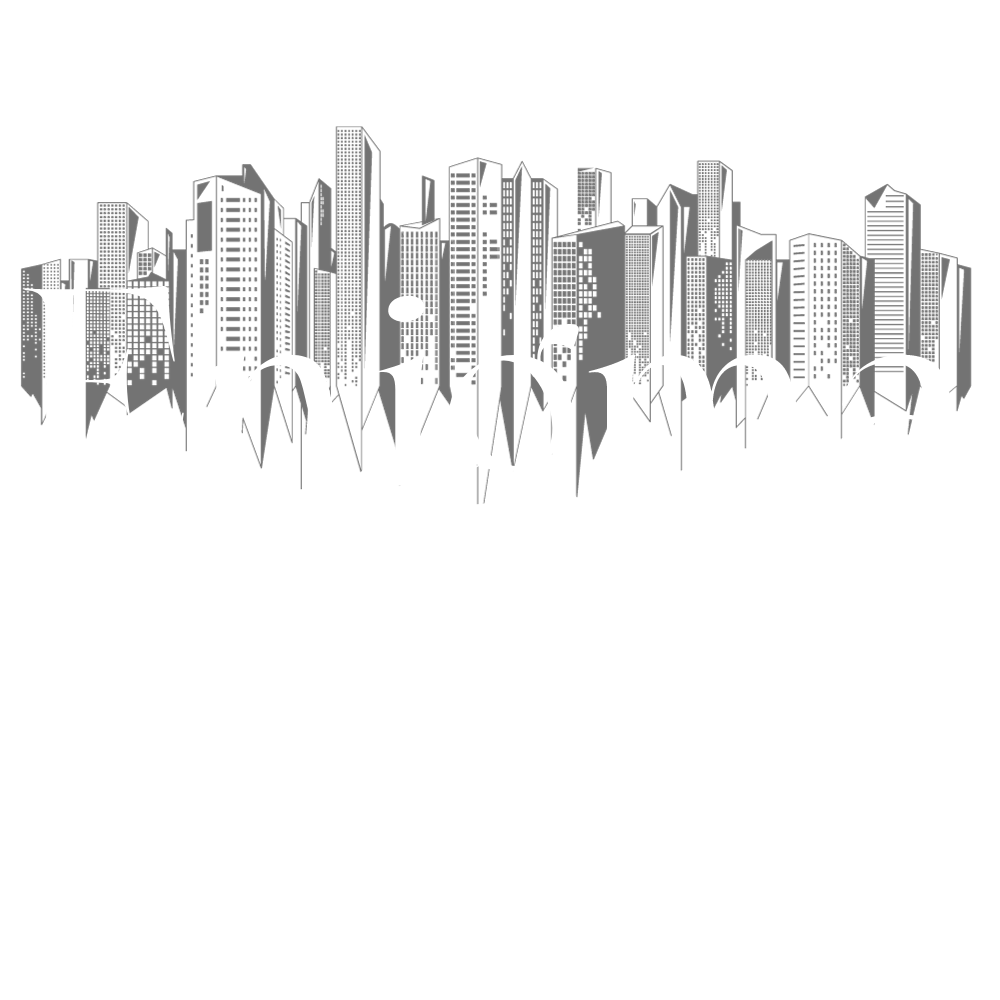
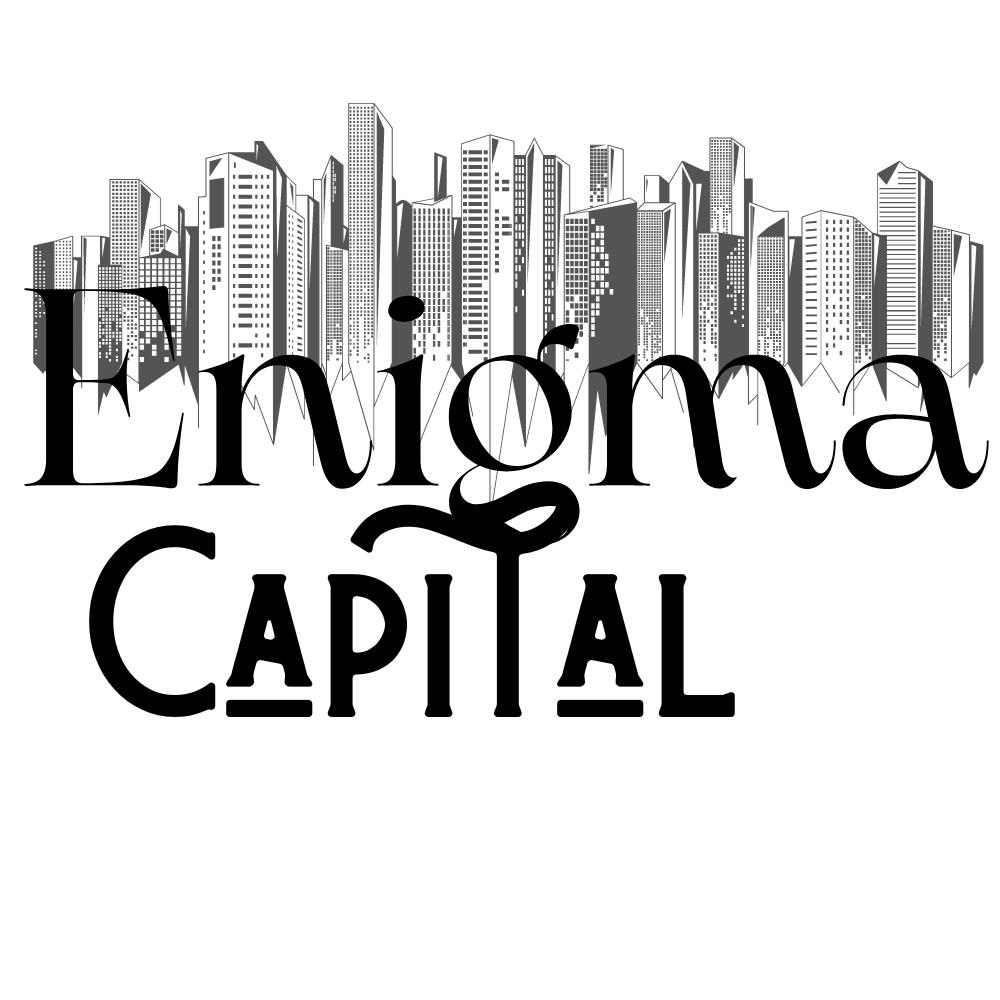
crud

Changed region(s): [[0.0, 0.093, 0.992, 0.744], [0.558, 0.558, 0.744, 0.744]]

diff --git a/css/style.css b/css/style.css
@@ -16,7 +16,7 @@ body {
 .titulo {
   position: fixed;
   left: 2%;
-  top: 9%;
+  top: 30%;
   width: 8em;
   margin-top: -2.5em;
   font-size: large;
@@ -38,7 +38,7 @@ a {
 
 .iniciar {
   position: fixed;
-  right: 5%;
+  right: 85%;
   top: 30%;
   width: 8em;
   margin-top: -2.5em;
@@ -57,12 +57,30 @@ a {
 
 .iniciar:hover {
   background-color: rgb(255, 255, 255);
+  border: 3px solid gray;
 }
 
 a:hover {
   color: black;
 }
-
+.crud {
+  position: fixed;
+  right: 95%;
+  bottom: 95%;
+  width: 8em;
+  margin-top: -2.5em;
+  border: 3px solid #ffffff;
+  padding: 5px 10px 5px 10px;
+  background-color: gray;
+  color: inherit;
+  transition: background .3s;
+  border-radius: 10px;
+  margin-top: 400px;
+  margin-left: 1150px;
+  width: 80px;
+  height: 40px;
+  font-size:medium
+}
 .sinopse {
   position: fixed;
   left: 2%;

diff --git a/index.php b/index.php
@@ -8,24 +8,10 @@
 </head>
 
 <body>
-    <label class="titulo"><img src="img/Enigma" width="250px" height="250px"></label><br>
+    <label class="titulo"><img src="img/Enigma" width="350px" height="350px"></label><br>
     <button type="button" class="iniciar"><a href="jogo.php">INICIAR</a></button>
-    <button type="button" class="crud"><a href="./crud/cadHistoria.php">cadastrarHistoria</a></button>
-    <button type="button" class="crud"><a href="./crud/cadEscolhas.php">cadastrarEscolhas</a></button>
-    <div class="sinopse">Em Enigma Capital, você assume o papel de um jovem dos anos 2000 que, após descobrir um
-        segredo obscuro sobre sua família, se vê imerso em um mundo de mistério e tragédia. Quando seu pai revela uma
-        história terrível de sumiço e perda que assolou sua família em 1972, o jovem decide desvendar os segredos do
-        passado.
-
-        Determinado a recuperar a honra de sua família e a riqueza perdida, você parte em uma jornada sombria para
-        descobrir a verdade por trás do desaparecimento de seu parente e o paradeiro dele. No entanto, o caminho para a
-        justiça está cheio de perigos e escolhas difíceis.
-
-        Cada pista descoberta revela uma nova camada de mistério, enquanto você mergulha mais fundo na história obscura
-        de sua família. A linha entre amigo e inimigo se torna turva, e as suas escolhas moldam não apenas o seu
-        destino, mas também o destino das gerações futuras.
-
-    </div>
+    <button type="button" class="crud"><a href="./crud/cadHistoria.php">CRUD</a></button>
+    
 </body>
 
 </html>

diff --git a/crud/listarE.php b/crud/listarE.php
@@ -39,10 +39,10 @@
     </tr>';
 
   while ($dados = mysqli_fetch_assoc($resultado)) {
-    echo "<td> " . $dados['id_escolhas'] . " </td>";
+    echo "<td> " . $dados['id_escolha'] . " </td>";
     echo "<td> " . $dados['escolha'] . "</td>";
-    echo "<td><a href='../crud/editarE.php?id_escolhas=" . $dados['id_escolhas'] . "&escolha=" . $dados['escolha'] . "'>" . "<img src='../img/settings.png' widht='20' height='20'" . "</a>";
-    echo " <a href='../crud/excluirEscolhas.php?id_escolhas=" . $dados['id_escolhas'] . "'>" . "<img src='../img/lixeira.png' widht='20' height='20'" . "</a></td>";
+    echo "<td><a href='../crud/editarE.php?id_escolha=" . $dados['id_escolha'] . "&escolha=" . $dados['escolha'] . "'>" . "<img src='../img/settings.png' widht='20' height='20'" . "</a>";
+    echo " <a href='../crud/excluirEscolhas.php?id_escolha=" . $dados['id_escolha'] . "'>" . "<img src='../img/lixeira.png' widht='20' height='20'" . "</a></td>";
     echo '</tr>';
   }
   echo '</table>
